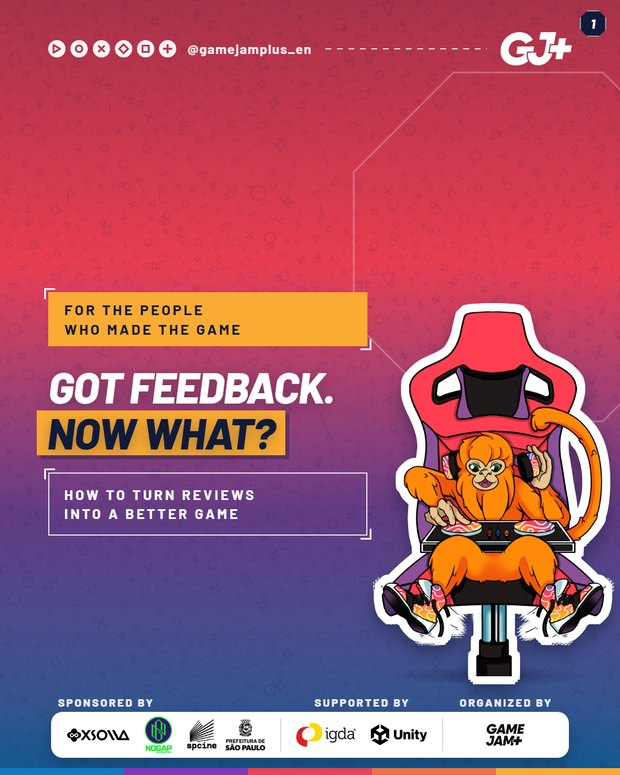
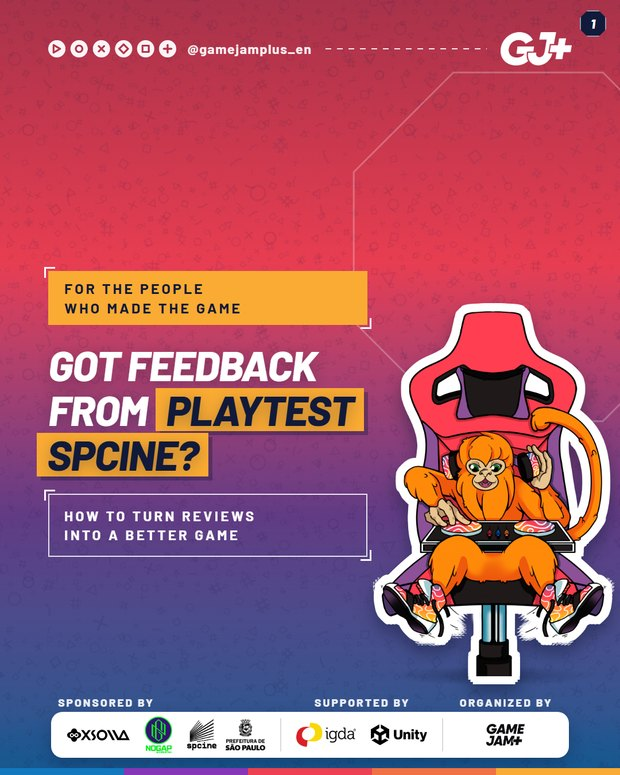
E28: capa deixa claro que e sobre o feedback do Playtest Spcine, nos tres idiomas, com legenda

Changed region(s): [[0.0306, 0.3406, 0.6129, 0.7123], [0.5823, 0.6813, 0.6129, 0.7432]]

diff --git a/index.html b/index.html
@@ -1262,18 +1262,18 @@ dialog img{width:min(92vw,620px);max-height:92dvh;object-fit:contain;border-radi
   <header><div><span class="tagcat">GJ+</span><span class="taglang ES">ES</span><h2>E27 - Feedback en el Playtest Spcine</h2></div>
   <div class="nav"><button aria-label="Anterior" data-d="-1">&#8592;</button><button aria-label="Pr&#243;ximo" data-d="1">&#8594;</button><span class="cont">5</span></div></header>
   <div class="strip"><figure><img src="img/01-conteudos-gj-es-e27-el-buen-feedback-tiene-metodo/slide_01.jpg?v=3" alt="E27 - Feedback en el Playtest Spcine 1" width="620" height="775" loading="lazy" decoding="async"><figcaption>01</figcaption></figure><figure><img src="img/01-conteudos-gj-es-e27-el-buen-feedback-tiene-metodo/slide_02.jpg?v=3" alt="E27 - Feedback en el Playtest Spcine 2" width="620" height="775" loading="lazy" decoding="async"><figcaption>02</figcaption></figure><figure><img src="img/01-conteudos-gj-es-e27-el-buen-feedback-tiene-metodo/slide_03.jpg?v=3" alt="E27 - Feedback en el Playtest Spcine 3" width="620" height="775" loading="lazy" decoding="async"><figcaption>03</figcaption></figure><figure><img src="img/01-conteudos-gj-es-e27-el-buen-feedback-tiene-metodo/slide_04.jpg?v=3" alt="E27 - Feedback en el Playtest Spcine 4" width="620" height="775" loading="lazy" decoding="async"><figcaption>04</figcaption></figure><figure><img src="img/01-conteudos-gj-es-e27-el-buen-feedback-tiene-metodo/slide_05.jpg?v=3" alt="E27 - Feedback en el Playtest Spcine 5" width="620" height="775" loading="lazy" decoding="async"><figcaption>05</figcaption></figure></div></article>
-<article class="c" data-cat="01-conteudos-gj" data-lang="PT" data-busca="e28 - recebeu feedback. e agora? gj+" id="c296">
-  <header><div><span class="tagcat">GJ+</span><span class="taglang PT">PT</span><h2>E28 - Recebeu feedback. E agora?</h2></div>
+<article class="c" data-cat="01-conteudos-gj" data-lang="PT" data-busca="e28 - recebeu feedback no playtest spcine? gj+" id="c296">
+  <header><div><span class="tagcat">GJ+</span><span class="taglang PT">PT</span><h2>E28 - Recebeu feedback no Playtest Spcine?</h2></div>
   <div class="nav"><button aria-label="Anterior" data-d="-1">&#8592;</button><button aria-label="Pr&#243;ximo" data-d="1">&#8594;</button><span class="cont">8</span></div></header>
-  <div class="strip"><figure><img src="img/01-conteudos-gj-pt-e28-olha-o-jogador-nao-o-jogo/slide_01.jpg?v=4" alt="E28 - Recebeu feedback. E agora? 1" width="620" height="775" loading="lazy" decoding="async"><figcaption>01</figcaption></figure><figure><img src="img/01-conteudos-gj-pt-e28-olha-o-jogador-nao-o-jogo/slide_02.jpg?v=4" alt="E28 - Recebeu feedback. E agora? 2" width="620" height="775" loading="lazy" decoding="async"><figcaption>02</figcaption></figure><figure><img src="img/01-conteudos-gj-pt-e28-olha-o-jogador-nao-o-jogo/slide_03.jpg?v=4" alt="E28 - Recebeu feedback. E agora? 3" width="620" height="775" loading="lazy" decoding="async"><figcaption>03</figcaption></figure><figure><img src="img/01-conteudos-gj-pt-e28-olha-o-jogador-nao-o-jogo/slide_04.jpg?v=4" alt="E28 - Recebeu feedback. E agora? 4" width="620" height="775" loading="lazy" decoding="async"><figcaption>04</figcaption></figure><figure><img src="img/01-conteudos-gj-pt-e28-olha-o-jogador-nao-o-jogo/slide_05.jpg?v=4" alt="E28 - Recebeu feedback. E agora? 5" width="620" height="775" loading="lazy" decoding="async"><figcaption>05</figcaption></figure><figure><img src="img/01-conteudos-gj-pt-e28-olha-o-jogador-nao-o-jogo/slide_06.jpg?v=4" alt="E28 - Recebeu feedback. E agora? 6" width="620" height="775" loading="lazy" decoding="async"><figcaption>06</figcaption></figure><figure><img src="img/01-conteudos-gj-pt-e28-olha-o-jogador-nao-o-jogo/slide_07.jpg?v=4" alt="E28 - Recebeu feedback. E agora? 7" width="620" height="775" loading="lazy" decoding="async"><figcaption>07</figcaption></figure><figure><img src="img/01-conteudos-gj-pt-e28-olha-o-jogador-nao-o-jogo/slide_08.jpg?v=4" alt="E28 - Recebeu feedback. E agora? 8" width="620" height="775" loading="lazy" decoding="async"><figcaption>08</figcaption></figure></div></article>
-<article class="c" data-cat="01-conteudos-gj" data-lang="EN" data-busca="e28 - got feedback. now what? gj+" id="c297">
-  <header><div><span class="tagcat">GJ+</span><span class="taglang EN">EN</span><h2>E28 - Got feedback. Now what?</h2></div>
+  <div class="strip"><figure><img src="img/01-conteudos-gj-pt-e28-olha-o-jogador-nao-o-jogo/slide_01.jpg?v=5" alt="E28 - Recebeu feedback no Playtest Spcine? 1" width="620" height="775" loading="lazy" decoding="async"><figcaption>01</figcaption></figure><figure><img src="img/01-conteudos-gj-pt-e28-olha-o-jogador-nao-o-jogo/slide_02.jpg?v=5" alt="E28 - Recebeu feedback no Playtest Spcine? 2" width="620" height="775" loading="lazy" decoding="async"><figcaption>02</figcaption></figure><figure><img src="img/01-conteudos-gj-pt-e28-olha-o-jogador-nao-o-jogo/slide_03.jpg?v=5" alt="E28 - Recebeu feedback no Playtest Spcine? 3" width="620" height="775" loading="lazy" decoding="async"><figcaption>03</figcaption></figure><figure><img src="img/01-conteudos-gj-pt-e28-olha-o-jogador-nao-o-jogo/slide_04.jpg?v=5" alt="E28 - Recebeu feedback no Playtest Spcine? 4" width="620" height="775" loading="lazy" decoding="async"><figcaption>04</figcaption></figure><figure><img src="img/01-conteudos-gj-pt-e28-olha-o-jogador-nao-o-jogo/slide_05.jpg?v=5" alt="E28 - Recebeu feedback no Playtest Spcine? 5" width="620" height="775" loading="lazy" decoding="async"><figcaption>05</figcaption></figure><figure><img src="img/01-conteudos-gj-pt-e28-olha-o-jogador-nao-o-jogo/slide_06.jpg?v=5" alt="E28 - Recebeu feedback no Playtest Spcine? 6" width="620" height="775" loading="lazy" decoding="async"><figcaption>06</figcaption></figure><figure><img src="img/01-conteudos-gj-pt-e28-olha-o-jogador-nao-o-jogo/slide_07.jpg?v=5" alt="E28 - Recebeu feedback no Playtest Spcine? 7" width="620" height="775" loading="lazy" decoding="async"><figcaption>07</figcaption></figure><figure><img src="img/01-conteudos-gj-pt-e28-olha-o-jogador-nao-o-jogo/slide_08.jpg?v=5" alt="E28 - Recebeu feedback no Playtest Spcine? 8" width="620" height="775" loading="lazy" decoding="async"><figcaption>08</figcaption></figure></div></article>
+<article class="c" data-cat="01-conteudos-gj" data-lang="EN" data-busca="e28 - got feedback from playtest spcine? gj+" id="c297">
+  <header><div><span class="tagcat">GJ+</span><span class="taglang EN">EN</span><h2>E28 - Got feedback from Playtest Spcine?</h2></div>
   <div class="nav"><button aria-label="Anterior" data-d="-1">&#8592;</button><button aria-label="Pr&#243;ximo" data-d="1">&#8594;</button><span class="cont">8</span></div></header>
-  <div class="strip"><figure><img src="img/01-conteudos-gj-en-e28-watch-the-player-not-the-game/slide_01.jpg?v=4" alt="E28 - Got feedback. Now what? 1" width="620" height="775" loading="lazy" decoding="async"><figcaption>01</figcaption></figure><figure><img src="img/01-conteudos-gj-en-e28-watch-the-player-not-the-game/slide_02.jpg?v=4" alt="E28 - Got feedback. Now what? 2" width="620" height="775" loading="lazy" decoding="async"><figcaption>02</figcaption></figure><figure><img src="img/01-conteudos-gj-en-e28-watch-the-player-not-the-game/slide_03.jpg?v=4" alt="E28 - Got feedback. Now what? 3" width="620" height="775" loading="lazy" decoding="async"><figcaption>03</figcaption></figure><figure><img src="img/01-conteudos-gj-en-e28-watch-the-player-not-the-game/slide_04.jpg?v=4" alt="E28 - Got feedback. Now what? 4" width="620" height="775" loading="lazy" decoding="async"><figcaption>04</figcaption></figure><figure><img src="img/01-conteudos-gj-en-e28-watch-the-player-not-the-game/slide_05.jpg?v=4" alt="E28 - Got feedback. Now what? 5" width="620" height="775" loading="lazy" decoding="async"><figcaption>05</figcaption></figure><figure><img src="img/01-conteudos-gj-en-e28-watch-the-player-not-the-game/slide_06.jpg?v=4" alt="E28 - Got feedback. Now what? 6" width="620" height="775" loading="lazy" decoding="async"><figcaption>06</figcaption></figure><figure><img src="img/01-conteudos-gj-en-e28-watch-the-player-not-the-game/slide_07.jpg?v=4" alt="E28 - Got feedback. Now what? 7" width="620" height="775" loading="lazy" decoding="async"><figcaption>07</figcaption></figure><figure><img src="img/01-conteudos-gj-en-e28-watch-the-player-not-the-game/slide_08.jpg?v=4" alt="E28 - Got feedback. Now what? 8" width="620" height="775" loading="lazy" decoding="async"><figcaption>08</figcaption></figure></div></article>
-<article class="c" data-cat="01-conteudos-gj" data-lang="ES" data-busca="e28 - recibiste feedback. y ahora? gj+" id="c298">
-  <header><div><span class="tagcat">GJ+</span><span class="taglang ES">ES</span><h2>E28 - Recibiste feedback. ¿Y ahora?</h2></div>
+  <div class="strip"><figure><img src="img/01-conteudos-gj-en-e28-watch-the-player-not-the-game/slide_01.jpg?v=5" alt="E28 - Got feedback from Playtest Spcine? 1" width="620" height="775" loading="lazy" decoding="async"><figcaption>01</figcaption></figure><figure><img src="img/01-conteudos-gj-en-e28-watch-the-player-not-the-game/slide_02.jpg?v=5" alt="E28 - Got feedback from Playtest Spcine? 2" width="620" height="775" loading="lazy" decoding="async"><figcaption>02</figcaption></figure><figure><img src="img/01-conteudos-gj-en-e28-watch-the-player-not-the-game/slide_03.jpg?v=5" alt="E28 - Got feedback from Playtest Spcine? 3" width="620" height="775" loading="lazy" decoding="async"><figcaption>03</figcaption></figure><figure><img src="img/01-conteudos-gj-en-e28-watch-the-player-not-the-game/slide_04.jpg?v=5" alt="E28 - Got feedback from Playtest Spcine? 4" width="620" height="775" loading="lazy" decoding="async"><figcaption>04</figcaption></figure><figure><img src="img/01-conteudos-gj-en-e28-watch-the-player-not-the-game/slide_05.jpg?v=5" alt="E28 - Got feedback from Playtest Spcine? 5" width="620" height="775" loading="lazy" decoding="async"><figcaption>05</figcaption></figure><figure><img src="img/01-conteudos-gj-en-e28-watch-the-player-not-the-game/slide_06.jpg?v=5" alt="E28 - Got feedback from Playtest Spcine? 6" width="620" height="775" loading="lazy" decoding="async"><figcaption>06</figcaption></figure><figure><img src="img/01-conteudos-gj-en-e28-watch-the-player-not-the-game/slide_07.jpg?v=5" alt="E28 - Got feedback from Playtest Spcine? 7" width="620" height="775" loading="lazy" decoding="async"><figcaption>07</figcaption></figure><figure><img src="img/01-conteudos-gj-en-e28-watch-the-player-not-the-game/slide_08.jpg?v=5" alt="E28 - Got feedback from Playtest Spcine? 8" width="620" height="775" loading="lazy" decoding="async"><figcaption>08</figcaption></figure></div></article>
+<article class="c" data-cat="01-conteudos-gj" data-lang="ES" data-busca="e28 - recibiste feedback en el playtest spcine? gj+" id="c298">
+  <header><div><span class="tagcat">GJ+</span><span class="taglang ES">ES</span><h2>E28 - ¿Recibiste feedback en el Playtest Spcine?</h2></div>
   <div class="nav"><button aria-label="Anterior" data-d="-1">&#8592;</button><button aria-label="Pr&#243;ximo" data-d="1">&#8594;</button><span class="cont">8</span></div></header>
-  <div class="strip"><figure><img src="img/01-conteudos-gj-es-e28-mira-al-jugador-no-al-juego/slide_01.jpg?v=4" alt="E28 - Recibiste feedback. ¿Y ahora? 1" width="620" height="775" loading="lazy" decoding="async"><figcaption>01</figcaption></figure><figure><img src="img/01-conteudos-gj-es-e28-mira-al-jugador-no-al-juego/slide_02.jpg?v=4" alt="E28 - Recibiste feedback. ¿Y ahora? 2" width="620" height="775" loading="lazy" decoding="async"><figcaption>02</figcaption></figure><figure><img src="img/01-conteudos-gj-es-e28-mira-al-jugador-no-al-juego/slide_03.jpg?v=4" alt="E28 - Recibiste feedback. ¿Y ahora? 3" width="620" height="775" loading="lazy" decoding="async"><figcaption>03</figcaption></figure><figure><img src="img/01-conteudos-gj-es-e28-mira-al-jugador-no-al-juego/slide_04.jpg?v=4" alt="E28 - Recibiste feedback. ¿Y ahora? 4" width="620" height="775" loading="lazy" decoding="async"><figcaption>04</figcaption></figure><figure><img src="img/01-conteudos-gj-es-e28-mira-al-jugador-no-al-juego/slide_05.jpg?v=4" alt="E28 - Recibiste feedback. ¿Y ahora? 5" width="620" height="775" loading="lazy" decoding="async"><figcaption>05</figcaption></figure><figure><img src="img/01-conteudos-gj-es-e28-mira-al-jugador-no-al-juego/slide_06.jpg?v=4" alt="E28 - Recibiste feedback. ¿Y ahora? 6" width="620" height="775" loading="lazy" decoding="async"><figcaption>06</figcaption></figure><figure><img src="img/01-conteudos-gj-es-e28-mira-al-jugador-no-al-juego/slide_07.jpg?v=4" alt="E28 - Recibiste feedback. ¿Y ahora? 7" width="620" height="775" loading="lazy" decoding="async"><figcaption>07</figcaption></figure><figure><img src="img/01-conteudos-gj-es-e28-mira-al-jugador-no-al-juego/slide_08.jpg?v=4" alt="E28 - Recibiste feedback. ¿Y ahora? 8" width="620" height="775" loading="lazy" decoding="async"><figcaption>08</figcaption></figure></div></article>
+  <div class="strip"><figure><img src="img/01-conteudos-gj-es-e28-mira-al-jugador-no-al-juego/slide_01.jpg?v=5" alt="E28 - ¿Recibiste feedback en el Playtest Spcine? 1" width="620" height="775" loading="lazy" decoding="async"><figcaption>01</figcaption></figure><figure><img src="img/01-conteudos-gj-es-e28-mira-al-jugador-no-al-juego/slide_02.jpg?v=5" alt="E28 - ¿Recibiste feedback en el Playtest Spcine? 2" width="620" height="775" loading="lazy" decoding="async"><figcaption>02</figcaption></figure><figure><img src="img/01-conteudos-gj-es-e28-mira-al-jugador-no-al-juego/slide_03.jpg?v=5" alt="E28 - ¿Recibiste feedback en el Playtest Spcine? 3" width="620" height="775" loading="lazy" decoding="async"><figcaption>03</figcaption></figure><figure><img src="img/01-conteudos-gj-es-e28-mira-al-jugador-no-al-juego/slide_04.jpg?v=5" alt="E28 - ¿Recibiste feedback en el Playtest Spcine? 4" width="620" height="775" loading="lazy" decoding="async"><figcaption>04</figcaption></figure><figure><img src="img/01-conteudos-gj-es-e28-mira-al-jugador-no-al-juego/slide_05.jpg?v=5" alt="E28 - ¿Recibiste feedback en el Playtest Spcine? 5" width="620" height="775" loading="lazy" decoding="async"><figcaption>05</figcaption></figure><figure><img src="img/01-conteudos-gj-es-e28-mira-al-jugador-no-al-juego/slide_06.jpg?v=5" alt="E28 - ¿Recibiste feedback en el Playtest Spcine? 6" width="620" height="775" loading="lazy" decoding="async"><figcaption>06</figcaption></figure><figure><img src="img/01-conteudos-gj-es-e28-mira-al-jugador-no-al-juego/slide_07.jpg?v=5" alt="E28 - ¿Recibiste feedback en el Playtest Spcine? 7" width="620" height="775" loading="lazy" decoding="async"><figcaption>07</figcaption></figure><figure><img src="img/01-conteudos-gj-es-e28-mira-al-jugador-no-al-juego/slide_08.jpg?v=5" alt="E28 - ¿Recibiste feedback en el Playtest Spcine? 8" width="620" height="775" loading="lazy" decoding="async"><figcaption>08</figcaption></figure></div></article>
 <article class="c" data-cat="01-conteudos-gj" data-lang="PT" data-busca="e29 - reta final, faltam 3 dias gj+" id="c299">
   <header><div><span class="tagcat">GJ+</span><span class="taglang PT">PT</span><h2>E29 - Reta final, faltam 3 dias</h2></div>
   <div class="nav"><button aria-label="Anterior" data-d="-1">&#8592;</button><button aria-label="Pr&#243;ximo" data-d="1">&#8594;</button><span class="cont">4</span></div></header>

diff --git a/p/e28-es/index.html b/p/e28-es/index.html
@@ -3,14 +3,14 @@
 <head>
 <meta charset="utf-8">
 <meta name="viewport" content="width=device-width,initial-scale=1">
-<title>E28 - Recibiste feedback. ¿Y ahora? · GameJamPlus</title>
-<meta name="description" content="Antes de cambiar una línea de tu juego, abre Mis juegos en Hero Hub y lee los números. Una diversión alta con poca gente dispuesta a jugar de nuevo apun...">
+<title>E28 - ¿Recibiste feedback en el Playtest Spcine? · GameJamPlus</title>
+<meta name="description" content="Llegaron las evaluaciones del Playtest Spcine. Antes de cambiar una línea de tu juego, abre Mis juegos en Hero Hub y lee los números. Una diversión alta...">
 <meta name="robots" content="noindex">
 <meta property="og:type" content="article">
 <meta property="og:site_name" content="GameJamPlus · carrosséis">
-<meta property="og:title" content="E28 - Recibiste feedback. ¿Y ahora?">
-<meta property="og:description" content="Antes de cambiar una línea de tu juego, abre Mis juegos en Hero Hub y lee los números. Una diversión alta con poca gente dispuesta a jugar de nuevo apun...">
-<meta property="og:image" content="https://gamejamplus-carrosseis.vercel.app/img/01-conteudos-gj-es-e28-mira-al-jugador-no-al-juego/slide_01.jpg?v=4">
+<meta property="og:title" content="E28 - ¿Recibiste feedback en el Playtest Spcine?">
+<meta property="og:description" content="Llegaron las evaluaciones del Playtest Spcine. Antes de cambiar una línea de tu juego, abre Mis juegos en Hero Hub y lee los números. Una diversión alta...">
+<meta property="og:image" content="https://gamejamplus-carrosseis.vercel.app/img/01-conteudos-gj-es-e28-mira-al-jugador-no-al-juego/slide_01.jpg?v=5">
 <meta property="og:url" content="https://gamejamplus-carrosseis.vercel.app/p/e28-es/">
 <meta name="twitter:card" content="summary_large_image">
 <link rel="preconnect" href="https://fonts.googleapis.com">
@@ -64,11 +64,11 @@ h1{font-size:23px;font-weight:800;letter-spacing:-.5px;margin:8px 0 4px;line-hei
     <a href="../../">Ver todos os carrosséis</a>
   </header>
   <div><span class="tagcat">GJ+</span><span class="taglang ES">ES</span></div>
-  <h1>E28 - Recibiste feedback. ¿Y ahora?</h1>
+  <h1>E28 - ¿Recibiste feedback en el Playtest Spcine?</h1>
   <p class="sub">8 slides</p>
 
   <div class="palco">
-    <img id="sl" src="../../img/01-conteudos-gj-es-e28-mira-al-jugador-no-al-juego/slide_01.jpg?v=4" alt="E28 - Recibiste feedback. ¿Y ahora? 1">
+    <img id="sl" src="../../img/01-conteudos-gj-es-e28-mira-al-jugador-no-al-juego/slide_01.jpg?v=5" alt="E28 - ¿Recibiste feedback en el Playtest Spcine? 1">
     <button class="seta e" type="button" aria-label="Anterior">←</button>
     <button class="seta d" type="button" aria-label="Próximo">→</button>
     <span class="cont"><b id="n">1</b>/8</span>
@@ -79,7 +79,7 @@ h1{font-size:23px;font-weight:800;letter-spacing:-.5px;margin:8px 0 4px;line-hei
 
   <section class="leg">
     <h2>Legenda do Instagram · ES</h2>
-    <p>Antes de cambiar una línea de tu juego, abre Mis juegos en Hero Hub y lee los números. Una diversión alta con poca gente dispuesta a jugar de nuevo apunta a progresión y variedad, mientras que una diversión baja suele estar en los primeros minutos.</p>
+    <p>Llegaron las evaluaciones del Playtest Spcine. Antes de cambiar una línea de tu juego, abre Mis juegos en Hero Hub y lee los números. Una diversión alta con poca gente dispuesta a jugar de nuevo apunta a progresión y variedad, mientras que una diversión baja suele estar en los primeros minutos.</p>
     <p>Después separa los comentarios en bug, confusión, ritmo y gusto, y descubre por qué la persona se trabó antes de tocar cualquier número. Elige solo tres arreglos, empezando por lo que más gente menciona y lo que pasa antes, y prueba en silencio con alguien que nunca jugó. Si tuviste que explicar, el juego no explicó.</p>
     <p>El Playtest Spcine va hasta el jueves 17/12. Invita a más gente a probar, marca las evaluaciones que ayudaron, juega el juego de otro equipo y cuéntanos qué feedback vas a resolver primero.</p>
     <div class="tags">#GameJamPlus #PlaytestSpcine #BeOurPlusOne #GameDev #IndieDev #IndieGames</div>
@@ -88,8 +88,8 @@ h1{font-size:23px;font-weight:800;letter-spacing:-.5px;margin:8px 0 4px;line-hei
   <p class="rod">Uso interno, para revisão.</p>
 </div>
 <script>
-const S=["../../img/01-conteudos-gj-es-e28-mira-al-jugador-no-al-juego/slide_01.jpg?v=4","../../img/01-conteudos-gj-es-e28-mira-al-jugador-no-al-juego/slide_02.jpg?v=4","../../img/01-conteudos-gj-es-e28-mira-al-jugador-no-al-juego/slide_03.jpg?v=4","../../img/01-conteudos-gj-es-e28-mira-al-jugador-no-al-juego/slide_04.jpg?v=4","../../img/01-conteudos-gj-es-e28-mira-al-jugador-no-al-juego/slide_05.jpg?v=4","../../img/01-conteudos-gj-es-e28-mira-al-jugador-no-al-juego/slide_06.jpg?v=4","../../img/01-conteudos-gj-es-e28-mira-al-jugador-no-al-juego/slide_07.jpg?v=4","../../img/01-conteudos-gj-es-e28-mira-al-jugador-no-al-juego/slide_08.jpg?v=4"];
-const LEGTXT="Antes de cambiar una línea de tu juego, abre Mis juegos en Hero Hub y lee los números. Una diversión alta con poca gente dispuesta a jugar de nuevo apunta a progresión y variedad, mientras que una diversión baja suele estar en los primeros minutos.\n\nDespués separa los comentarios en bug, confusión, ritmo y gusto, y descubre por qué la persona se trabó antes de tocar cualquier número. Elige solo tres arreglos, empezando por lo que más gente menciona y lo que pasa antes, y prueba en silencio con alguien que nunca jugó. Si tuviste que explicar, el juego no explicó.\n\nEl Playtest Spcine va hasta el jueves 17/12. Invita a más gente a probar, marca las evaluaciones que ayudaron, juega el juego de otro equipo y cuéntanos qué feedback vas a resolver primero.\n\n#GameJamPlus #PlaytestSpcine #BeOurPlusOne #GameDev #IndieDev #IndieGames";
+const S=["../../img/01-conteudos-gj-es-e28-mira-al-jugador-no-al-juego/slide_01.jpg?v=5","../../img/01-conteudos-gj-es-e28-mira-al-jugador-no-al-juego/slide_02.jpg?v=5","../../img/01-conteudos-gj-es-e28-mira-al-jugador-no-al-juego/slide_03.jpg?v=5","../../img/01-conteudos-gj-es-e28-mira-al-jugador-no-al-juego/slide_04.jpg?v=5","../../img/01-conteudos-gj-es-e28-mira-al-jugador-no-al-juego/slide_05.jpg?v=5","../../img/01-conteudos-gj-es-e28-mira-al-jugador-no-al-juego/slide_06.jpg?v=5","../../img/01-conteudos-gj-es-e28-mira-al-jugador-no-al-juego/slide_07.jpg?v=5","../../img/01-conteudos-gj-es-e28-mira-al-jugador-no-al-juego/slide_08.jpg?v=5"];
+const LEGTXT="Llegaron las evaluaciones del Playtest Spcine. Antes de cambiar una línea de tu juego, abre Mis juegos en Hero Hub y lee los números. Una diversión alta con poca gente dispuesta a jugar de nuevo apunta a progresión y variedad, mientras que una diversión baja suele estar en los primeros minutos.\n\nDespués separa los comentarios en bug, confusión, ritmo y gusto, y descubre por qué la persona se trabó antes de tocar cualquier número. Elige solo tres arreglos, empezando por lo que más gente menciona y lo que pasa antes, y prueba en silencio con alguien que nunca jugó. Si tuviste que explicar, el juego no explicó.\n\nEl Playtest Spcine va hasta el jueves 17/12. Invita a más gente a probar, marca las evaluaciones que ayudaron, juega el juego de otro equipo y cuéntanos qué feedback vas a resolver primero.\n\n#GameJamPlus #PlaytestSpcine #BeOurPlusOne #GameDev #IndieDev #IndieGames";
 let i=0;
 const img=document.getElementById('sl'),nn=document.getElementById('n'),dots=document.getElementById('dots');
 if(dots){S.forEach((_,k)=>{const d=document.createElement('i');d.onclick=()=>ir(k);dots.append(d)});}

diff --git a/p/e28-pt/index.html b/p/e28-pt/index.html
@@ -3,14 +3,14 @@
 <head>
 <meta charset="utf-8">
 <meta name="viewport" content="width=device-width,initial-scale=1">
-<title>E28 - Recebeu feedback. E agora? · GameJamPlus</title>
-<meta name="description" content="Antes de mudar uma linha do jogo, abre Meus jogos no Hero Hub e lê os números. Diversão alta com pouca gente querendo jogar de novo aponta pra progressã...">
+<title>E28 - Recebeu feedback no Playtest Spcine? · GameJamPlus</title>
+<meta name="description" content="Chegaram as avaliações do Playtest Spcine. Antes de mudar uma linha do jogo, abre Meus jogos no Hero Hub e lê os números. Diversão alta com pouca gente...">
 <meta name="robots" content="noindex">
 <meta property="og:type" content="article">
 <meta property="og:site_name" content="GameJamPlus · carrosséis">
-<meta property="og:title" content="E28 - Recebeu feedback. E agora?">
-<meta property="og:description" content="Antes de mudar uma linha do jogo, abre Meus jogos no Hero Hub e lê os números. Diversão alta com pouca gente querendo jogar de novo aponta pra progressã...">
-<meta property="og:image" content="https://gamejamplus-carrosseis.vercel.app/img/01-conteudos-gj-pt-e28-olha-o-jogador-nao-o-jogo/slide_01.jpg?v=4">
+<meta property="og:title" content="E28 - Recebeu feedback no Playtest Spcine?">
+<meta property="og:description" content="Chegaram as avaliações do Playtest Spcine. Antes de mudar uma linha do jogo, abre Meus jogos no Hero Hub e lê os números. Diversão alta com pouca gente...">
+<meta property="og:image" content="https://gamejamplus-carrosseis.vercel.app/img/01-conteudos-gj-pt-e28-olha-o-jogador-nao-o-jogo/slide_01.jpg?v=5">
 <meta property="og:url" content="https://gamejamplus-carrosseis.vercel.app/p/e28-pt/">
 <meta name="twitter:card" content="summary_large_image">
 <link rel="preconnect" href="https://fonts.googleapis.com">
@@ -64,11 +64,11 @@ h1{font-size:23px;font-weight:800;letter-spacing:-.5px;margin:8px 0 4px;line-hei
     <a href="../../">Ver todos os carrosséis</a>
   </header>
   <div><span class="tagcat">GJ+</span><span class="taglang PT">PT</span></div>
-  <h1>E28 - Recebeu feedback. E agora?</h1>
+  <h1>E28 - Recebeu feedback no Playtest Spcine?</h1>
   <p class="sub">8 slides</p>
 
   <div class="palco">
-    <img id="sl" src="../../img/01-conteudos-gj-pt-e28-olha-o-jogador-nao-o-jogo/slide_01.jpg?v=4" alt="E28 - Recebeu feedback. E agora? 1">
+    <img id="sl" src="../../img/01-conteudos-gj-pt-e28-olha-o-jogador-nao-o-jogo/slide_01.jpg?v=5" alt="E28 - Recebeu feedback no Playtest Spcine? 1">
     <button class="seta e" type="button" aria-label="Anterior">←</button>
     <button class="seta d" type="button" aria-label="Próximo">→</button>
     <span class="cont"><b id="n">1</b>/8</span>
@@ -79,7 +79,7 @@ h1{font-size:23px;font-weight:800;letter-spacing:-.5px;margin:8px 0 4px;line-hei
 
   <section class="leg">
     <h2>Legenda do Instagram · PT</h2>
-    <p>Antes de mudar uma linha do jogo, abre Meus jogos no Hero Hub e lê os números. Diversão alta com pouca gente querendo jogar de novo aponta pra progressão e variedade, enquanto diversão baixa costuma estar nos primeiros minutos.</p>
+    <p>Chegaram as avaliações do Playtest Spcine. Antes de mudar uma linha do jogo, abre Meus jogos no Hero Hub e lê os números. Diversão alta com pouca gente querendo jogar de novo aponta pra progressão e variedade, enquanto diversão baixa costuma estar nos primeiros minutos.</p>
     <p>Depois separa os comentários em bug, confusão, ritmo e gosto, e descobre por que a pessoa travou antes de mexer em qualquer número. Escolhe só três correções, começando pelo que mais gente cita e pelo que acontece mais cedo, e testa em silêncio com quem nunca jogou. Se você precisou explicar, o jogo não explicou.</p>
     <p>O Playtest Spcine vai até quinta, 17/12. Chama mais gente pra testar, marca as avaliações que ajudaram, joga o jogo de outro time e conta aqui qual feedback você vai resolver primeiro.</p>
     <div class="tags">#GameJamPlus #PlaytestSpcine #BeOurPlusOne #GameDev #IndieDev #IndieGames</div>
@@ -88,8 +88,8 @@ h1{font-size:23px;font-weight:800;letter-spacing:-.5px;margin:8px 0 4px;line-hei
   <p class="rod">Uso interno, para revisão.</p>
 </div>
 <script>
-const S=["../../img/01-conteudos-gj-pt-e28-olha-o-jogador-nao-o-jogo/slide_01.jpg?v=4","../../img/01-conteudos-gj-pt-e28-olha-o-jogador-nao-o-jogo/slide_02.jpg?v=4","../../img/01-conteudos-gj-pt-e28-olha-o-jogador-nao-o-jogo/slide_03.jpg?v=4","../../img/01-conteudos-gj-pt-e28-olha-o-jogador-nao-o-jogo/slide_04.jpg?v=4","../../img/01-conteudos-gj-pt-e28-olha-o-jogador-nao-o-jogo/slide_05.jpg?v=4","../../img/01-conteudos-gj-pt-e28-olha-o-jogador-nao-o-jogo/slide_06.jpg?v=4","../../img/01-conteudos-gj-pt-e28-olha-o-jogador-nao-o-jogo/slide_07.jpg?v=4","../../img/01-conteudos-gj-pt-e28-olha-o-jogador-nao-o-jogo/slide_08.jpg?v=4"];
-const LEGTXT="Antes de mudar uma linha do jogo, abre Meus jogos no Hero Hub e lê os números. Diversão alta com pouca gente querendo jogar de novo aponta pra progressão e variedade, enquanto diversão baixa costuma estar nos primeiros minutos.\n\nDepois separa os comentários em bug, confusão, ritmo e gosto, e descobre por que a pessoa travou antes de mexer em qualquer número. Escolhe só três correções, começando pelo que mais gente cita e pelo que acontece mais cedo, e testa em silêncio com quem nunca jogou. Se você precisou explicar, o jogo não explicou.\n\nO Playtest Spcine vai até quinta, 17/12. Chama mais gente pra testar, marca as avaliações que ajudaram, joga o jogo de outro time e conta aqui qual feedback você vai resolver primeiro.\n\n#GameJamPlus #PlaytestSpcine #BeOurPlusOne #GameDev #IndieDev #IndieGames";
+const S=["../../img/01-conteudos-gj-pt-e28-olha-o-jogador-nao-o-jogo/slide_01.jpg?v=5","../../img/01-conteudos-gj-pt-e28-olha-o-jogador-nao-o-jogo/slide_02.jpg?v=5","../../img/01-conteudos-gj-pt-e28-olha-o-jogador-nao-o-jogo/slide_03.jpg?v=5","../../img/01-conteudos-gj-pt-e28-olha-o-jogador-nao-o-jogo/slide_04.jpg?v=5","../../img/01-conteudos-gj-pt-e28-olha-o-jogador-nao-o-jogo/slide_05.jpg?v=5","../../img/01-conteudos-gj-pt-e28-olha-o-jogador-nao-o-jogo/slide_06.jpg?v=5","../../img/01-conteudos-gj-pt-e28-olha-o-jogador-nao-o-jogo/slide_07.jpg?v=5","../../img/01-conteudos-gj-pt-e28-olha-o-jogador-nao-o-jogo/slide_08.jpg?v=5"];
+const LEGTXT="Chegaram as avaliações do Playtest Spcine. Antes de mudar uma linha do jogo, abre Meus jogos no Hero Hub e lê os números. Diversão alta com pouca gente querendo jogar de novo aponta pra progressão e variedade, enquanto diversão baixa costuma estar nos primeiros minutos.\n\nDepois separa os comentários em bug, confusão, ritmo e gosto, e descobre por que a pessoa travou antes de mexer em qualquer número. Escolhe só três correções, começando pelo que mais gente cita e pelo que acontece mais cedo, e testa em silêncio com quem nunca jogou. Se você precisou explicar, o jogo não explicou.\n\nO Playtest Spcine vai até quinta, 17/12. Chama mais gente pra testar, marca as avaliações que ajudaram, joga o jogo de outro time e conta aqui qual feedback você vai resolver primeiro.\n\n#GameJamPlus #PlaytestSpcine #BeOurPlusOne #GameDev #IndieDev #IndieGames";
 let i=0;
 const img=document.getElementById('sl'),nn=document.getElementById('n'),dots=document.getElementById('dots');
 if(dots){S.forEach((_,k)=>{const d=document.createElement('i');d.onclick=()=>ir(k);dots.append(d)});}

diff --git a/p/e28-en/index.html b/p/e28-en/index.html
@@ -3,14 +3,14 @@
 <head>
 <meta charset="utf-8">
 <meta name="viewport" content="width=device-width,initial-scale=1">
-<title>E28 - Got feedback. Now what? · GameJamPlus</title>
-<meta name="description" content="Before you change a line of your game, open My games on Hero Hub and read the numbers. A high fun score with few people willing to play again points to...">
+<title>E28 - Got feedback from Playtest Spcine? · GameJamPlus</title>
+<meta name="description" content="The Playtest Spcine reviews are in. Before you change a line of your game, open My games on Hero Hub and read the numbers. A high fun score with few peo...">
 <meta name="robots" content="noindex">
 <meta property="og:type" content="article">
 <meta property="og:site_name" content="GameJamPlus · carrosséis">
-<meta property="og:title" content="E28 - Got feedback. Now what?">
-<meta property="og:description" content="Before you change a line of your game, open My games on Hero Hub and read the numbers. A high fun score with few people willing to play again points to...">
-<meta property="og:image" content="https://gamejamplus-carrosseis.vercel.app/img/01-conteudos-gj-en-e28-watch-the-player-not-the-game/slide_01.jpg?v=4">
+<meta property="og:title" content="E28 - Got feedback from Playtest Spcine?">
+<meta property="og:description" content="The Playtest Spcine reviews are in. Before you change a line of your game, open My games on Hero Hub and read the numbers. A high fun score with few peo...">
+<meta property="og:image" content="https://gamejamplus-carrosseis.vercel.app/img/01-conteudos-gj-en-e28-watch-the-player-not-the-game/slide_01.jpg?v=5">
 <meta property="og:url" content="https://gamejamplus-carrosseis.vercel.app/p/e28-en/">
 <meta name="twitter:card" content="summary_large_image">
 <link rel="preconnect" href="https://fonts.googleapis.com">
@@ -64,11 +64,11 @@ h1{font-size:23px;font-weight:800;letter-spacing:-.5px;margin:8px 0 4px;line-hei
     <a href="../../">Ver todos os carrosséis</a>
   </header>
   <div><span class="tagcat">GJ+</span><span class="taglang EN">EN</span></div>
-  <h1>E28 - Got feedback. Now what?</h1>
+  <h1>E28 - Got feedback from Playtest Spcine?</h1>
   <p class="sub">8 slides</p>
 
   <div class="palco">
-    <img id="sl" src="../../img/01-conteudos-gj-en-e28-watch-the-player-not-the-game/slide_01.jpg?v=4" alt="E28 - Got feedback. Now what? 1">
+    <img id="sl" src="../../img/01-conteudos-gj-en-e28-watch-the-player-not-the-game/slide_01.jpg?v=5" alt="E28 - Got feedback from Playtest Spcine? 1">
     <button class="seta e" type="button" aria-label="Anterior">←</button>
     <button class="seta d" type="button" aria-label="Próximo">→</button>
     <span class="cont"><b id="n">1</b>/8</span>
@@ -79,7 +79,7 @@ h1{font-size:23px;font-weight:800;letter-spacing:-.5px;margin:8px 0 4px;line-hei
 
   <section class="leg">
     <h2>Legenda do Instagram · EN</h2>
-    <p>Before you change a line of your game, open My games on Hero Hub and read the numbers. A high fun score with few people willing to play again points to progression and variety, while a low one usually lives in the first minutes.</p>
+    <p>The Playtest Spcine reviews are in. Before you change a line of your game, open My games on Hero Hub and read the numbers. A high fun score with few people willing to play again points to progression and variety, while a low one usually lives in the first minutes.</p>
     <p>Then sort the comments into bugs, confusion, pacing and taste, and find out why people got stuck before touching any number. Pick only three fixes, starting with what more people mention and what happens earliest, and test quietly with someone who has never played. If you had to explain it, the game didn't.</p>
     <p>Playtest Spcine runs until Thursday, Dec 17. Get more people testing, mark the reviews that helped, play another team's game and tell us which piece of feedback you'll tackle first.</p>
     <div class="tags">#GameJamPlus #PlaytestSpcine #BeOurPlusOne #GameDev #IndieDev #IndieGames</div>
@@ -88,8 +88,8 @@ h1{font-size:23px;font-weight:800;letter-spacing:-.5px;margin:8px 0 4px;line-hei
   <p class="rod">Uso interno, para revisão.</p>
 </div>
 <script>
-const S=["../../img/01-conteudos-gj-en-e28-watch-the-player-not-the-game/slide_01.jpg?v=4","../../img/01-conteudos-gj-en-e28-watch-the-player-not-the-game/slide_02.jpg?v=4","../../img/01-conteudos-gj-en-e28-watch-the-player-not-the-game/slide_03.jpg?v=4","../../img/01-conteudos-gj-en-e28-watch-the-player-not-the-game/slide_04.jpg?v=4","../../img/01-conteudos-gj-en-e28-watch-the-player-not-the-game/slide_05.jpg?v=4","../../img/01-conteudos-gj-en-e28-watch-the-player-not-the-game/slide_06.jpg?v=4","../../img/01-conteudos-gj-en-e28-watch-the-player-not-the-game/slide_07.jpg?v=4","../../img/01-conteudos-gj-en-e28-watch-the-player-not-the-game/slide_08.jpg?v=4"];
-const LEGTXT="Before you change a line of your game, open My games on Hero Hub and read the numbers. A high fun score with few people willing to play again points to progression and variety, while a low one usually lives in the first minutes.\n\nThen sort the comments into bugs, confusion, pacing and taste, and find out why people got stuck before touching any number. Pick only three fixes, starting with what more people mention and what happens earliest, and test quietly with someone who has never played. If you had to explain it, the game didn't.\n\nPlaytest Spcine runs until Thursday, Dec 17. Get more people testing, mark the reviews that helped, play another team's game and tell us which piece of feedback you'll tackle first.\n\n#GameJamPlus #PlaytestSpcine #BeOurPlusOne #GameDev #IndieDev #IndieGames";
+const S=["../../img/01-conteudos-gj-en-e28-watch-the-player-not-the-game/slide_01.jpg?v=5","../../img/01-conteudos-gj-en-e28-watch-the-player-not-the-game/slide_02.jpg?v=5","../../img/01-conteudos-gj-en-e28-watch-the-player-not-the-game/slide_03.jpg?v=5","../../img/01-conteudos-gj-en-e28-watch-the-player-not-the-game/slide_04.jpg?v=5","../../img/01-conteudos-gj-en-e28-watch-the-player-not-the-game/slide_05.jpg?v=5","../../img/01-conteudos-gj-en-e28-watch-the-player-not-the-game/slide_06.jpg?v=5","../../img/01-conteudos-gj-en-e28-watch-the-player-not-the-game/slide_07.jpg?v=5","../../img/01-conteudos-gj-en-e28-watch-the-player-not-the-game/slide_08.jpg?v=5"];
+const LEGTXT="The Playtest Spcine reviews are in. Before you change a line of your game, open My games on Hero Hub and read the numbers. A high fun score with few people willing to play again points to progression and variety, while a low one usually lives in the first minutes.\n\nThen sort the comments into bugs, confusion, pacing and taste, and find out why people got stuck before touching any number. Pick only three fixes, starting with what more people mention and what happens earliest, and test quietly with someone who has never played. If you had to explain it, the game didn't.\n\nPlaytest Spcine runs until Thursday, Dec 17. Get more people testing, mark the reviews that helped, play another team's game and tell us which piece of feedback you'll tackle first.\n\n#GameJamPlus #PlaytestSpcine #BeOurPlusOne #GameDev #IndieDev #IndieGames";
 let i=0;
 const img=document.getElementById('sl'),nn=document.getElementById('n'),dots=document.getElementById('dots');
 if(dots){S.forEach((_,k)=>{const d=document.createElement('i');d.onclick=()=>ir(k);dots.append(d)});}

diff --git a/legendas.js b/legendas.js
@@ -1856,9 +1856,9 @@ window.LEGENDAS = {
 },
 
 "gj-e28-pt": {
-  "titulo": "E28 · Recebeu feedback. E agora?",
+  "titulo": "E28 · Recebeu feedback no Playtest Spcine?",
   "p": [
-    "Antes de mudar uma linha do jogo, abre Meus jogos no Hero Hub e lê os números. Diversão alta com pouca gente querendo jogar de novo aponta pra progressão e variedade, enquanto diversão baixa costuma estar nos primeiros minutos.",
+    "Chegaram as avaliações do Playtest Spcine. Antes de mudar uma linha do jogo, abre Meus jogos no Hero Hub e lê os números. Diversão alta com pouca gente querendo jogar de novo aponta pra progressão e variedade, enquanto diversão baixa costuma estar nos primeiros minutos.",
     "Depois separa os comentários em bug, confusão, ritmo e gosto, e descobre por que a pessoa travou antes de mexer em qualquer número. Escolhe só três correções, começando pelo que mais gente cita e pelo que acontece mais cedo, e testa em silêncio com quem nunca jogou. Se você precisou explicar, o jogo não explicou.",
     "O Playtest Spcine vai até quinta, 17/12. Chama mais gente pra testar, marca as avaliações que ajudaram, joga o jogo de outro time e conta aqui qual feedback você vai resolver primeiro."
   ],
@@ -1866,9 +1866,9 @@ window.LEGENDAS = {
 },
 
 "gj-e28": {
-  "titulo": "E28 · Got feedback. Now what?",
+  "titulo": "E28 · Got feedback from Playtest Spcine?",
   "p": [
-    "Before you change a line of your game, open My games on Hero Hub and read the numbers. A high fun score with few people willing to play again points to progression and variety, while a low one usually lives in the first minutes.",
+    "The Playtest Spcine reviews are in. Before you change a line of your game, open My games on Hero Hub and read the numbers. A high fun score with few people willing to play again points to progression and variety, while a low one usually lives in the first minutes.",
     "Then sort the comments into bugs, confusion, pacing and taste, and find out why people got stuck before touching any number. Pick only three fixes, starting with what more people mention and what happens earliest, and test quietly with someone who has never played. If you had to explain it, the game didn't.",
     "Playtest Spcine runs until Thursday, Dec 17. Get more people testing, mark the reviews that helped, play another team's game and tell us which piece of feedback you'll tackle first."
   ],
@@ -1876,9 +1876,9 @@ window.LEGENDAS = {
 },
 
 "gj-e28-es": {
-  "titulo": "E28 · Recibiste feedback. ¿Y ahora?",
+  "titulo": "E28 · ¿Recibiste feedback en el Playtest Spcine?",
   "p": [
-    "Antes de cambiar una línea de tu juego, abre Mis juegos en Hero Hub y lee los números. Una diversión alta con poca gente dispuesta a jugar de nuevo apunta a progresión y variedad, mientras que una diversión baja suele estar en los primeros minutos.",
+    "Llegaron las evaluaciones del Playtest Spcine. Antes de cambiar una línea de tu juego, abre Mis juegos en Hero Hub y lee los números. Una diversión alta con poca gente dispuesta a jugar de nuevo apunta a progresión y variedad, mientras que una diversión baja suele estar en los primeros minutos.",
     "Después separa los comentarios en bug, confusión, ritmo y gusto, y descubre por qué la persona se trabó antes de tocar cualquier número. Elige solo tres arreglos, empezando por lo que más gente menciona y lo que pasa antes, y prueba en silencio con alguien que nunca jugó. Si tuviste que explicar, el juego no explicó.",
     "El Playtest Spcine va hasta el jueves 17/12. Invita a más gente a probar, marca las evaluaciones que ayudaron, juega el juego de otro equipo y cuéntanos qué feedback vas a resolver primero."
   ],
